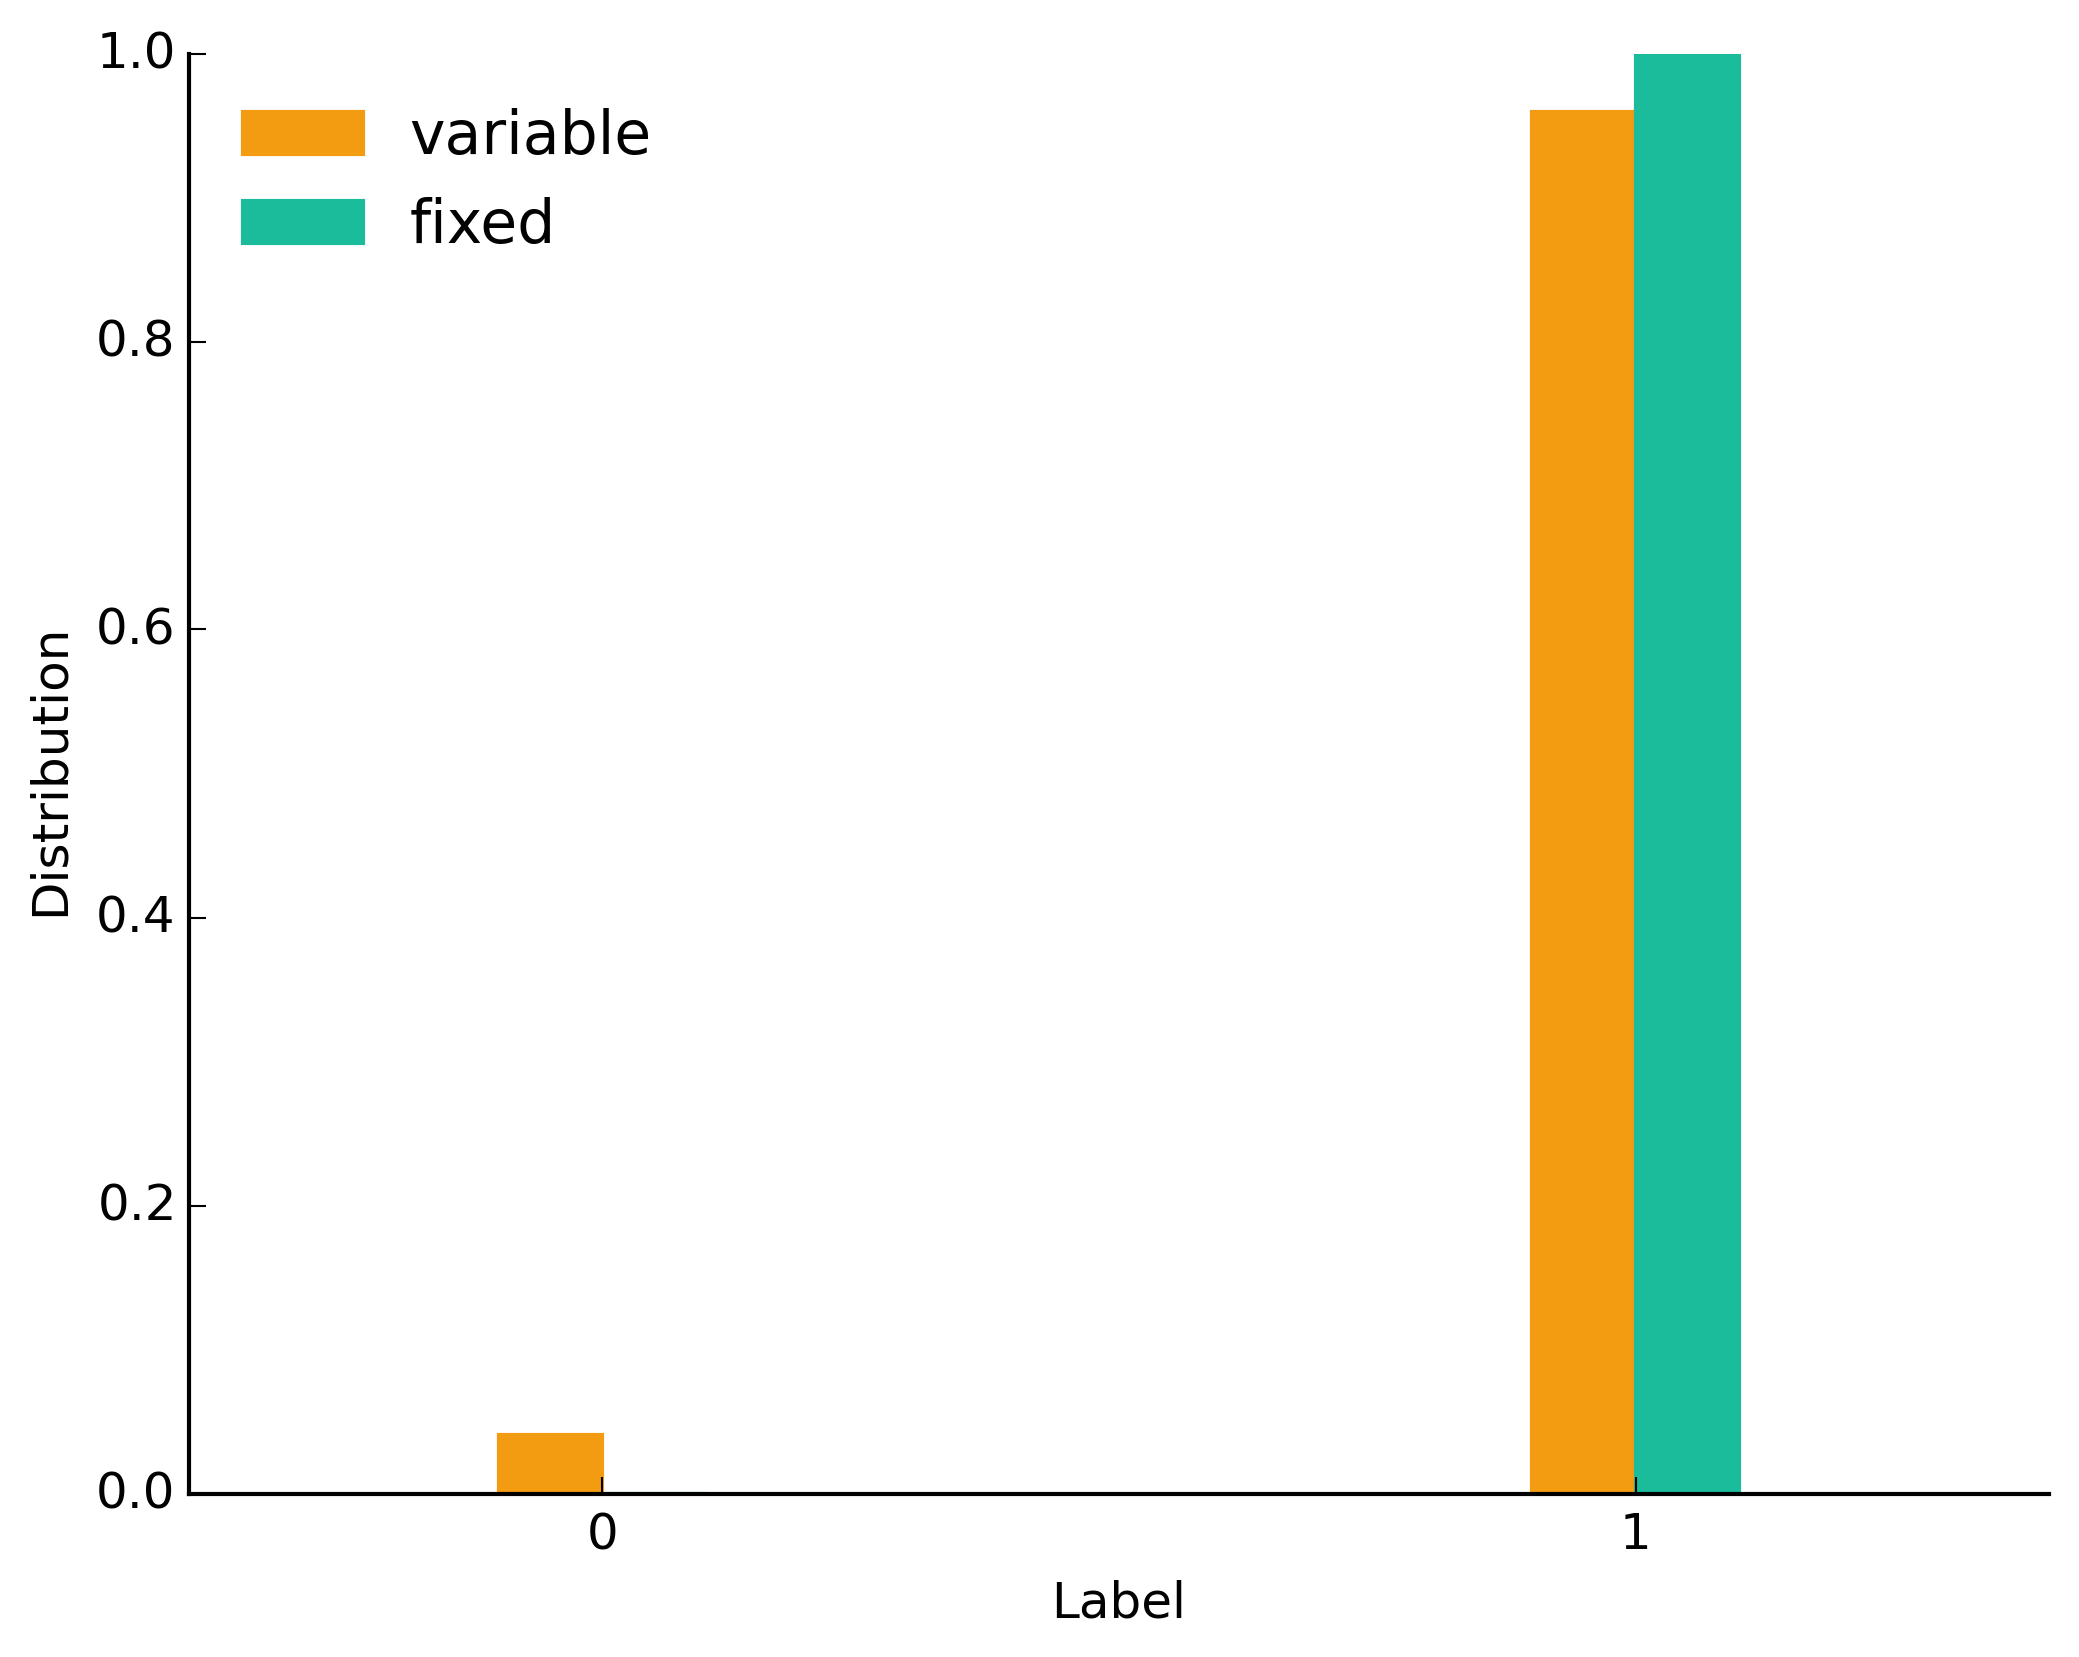
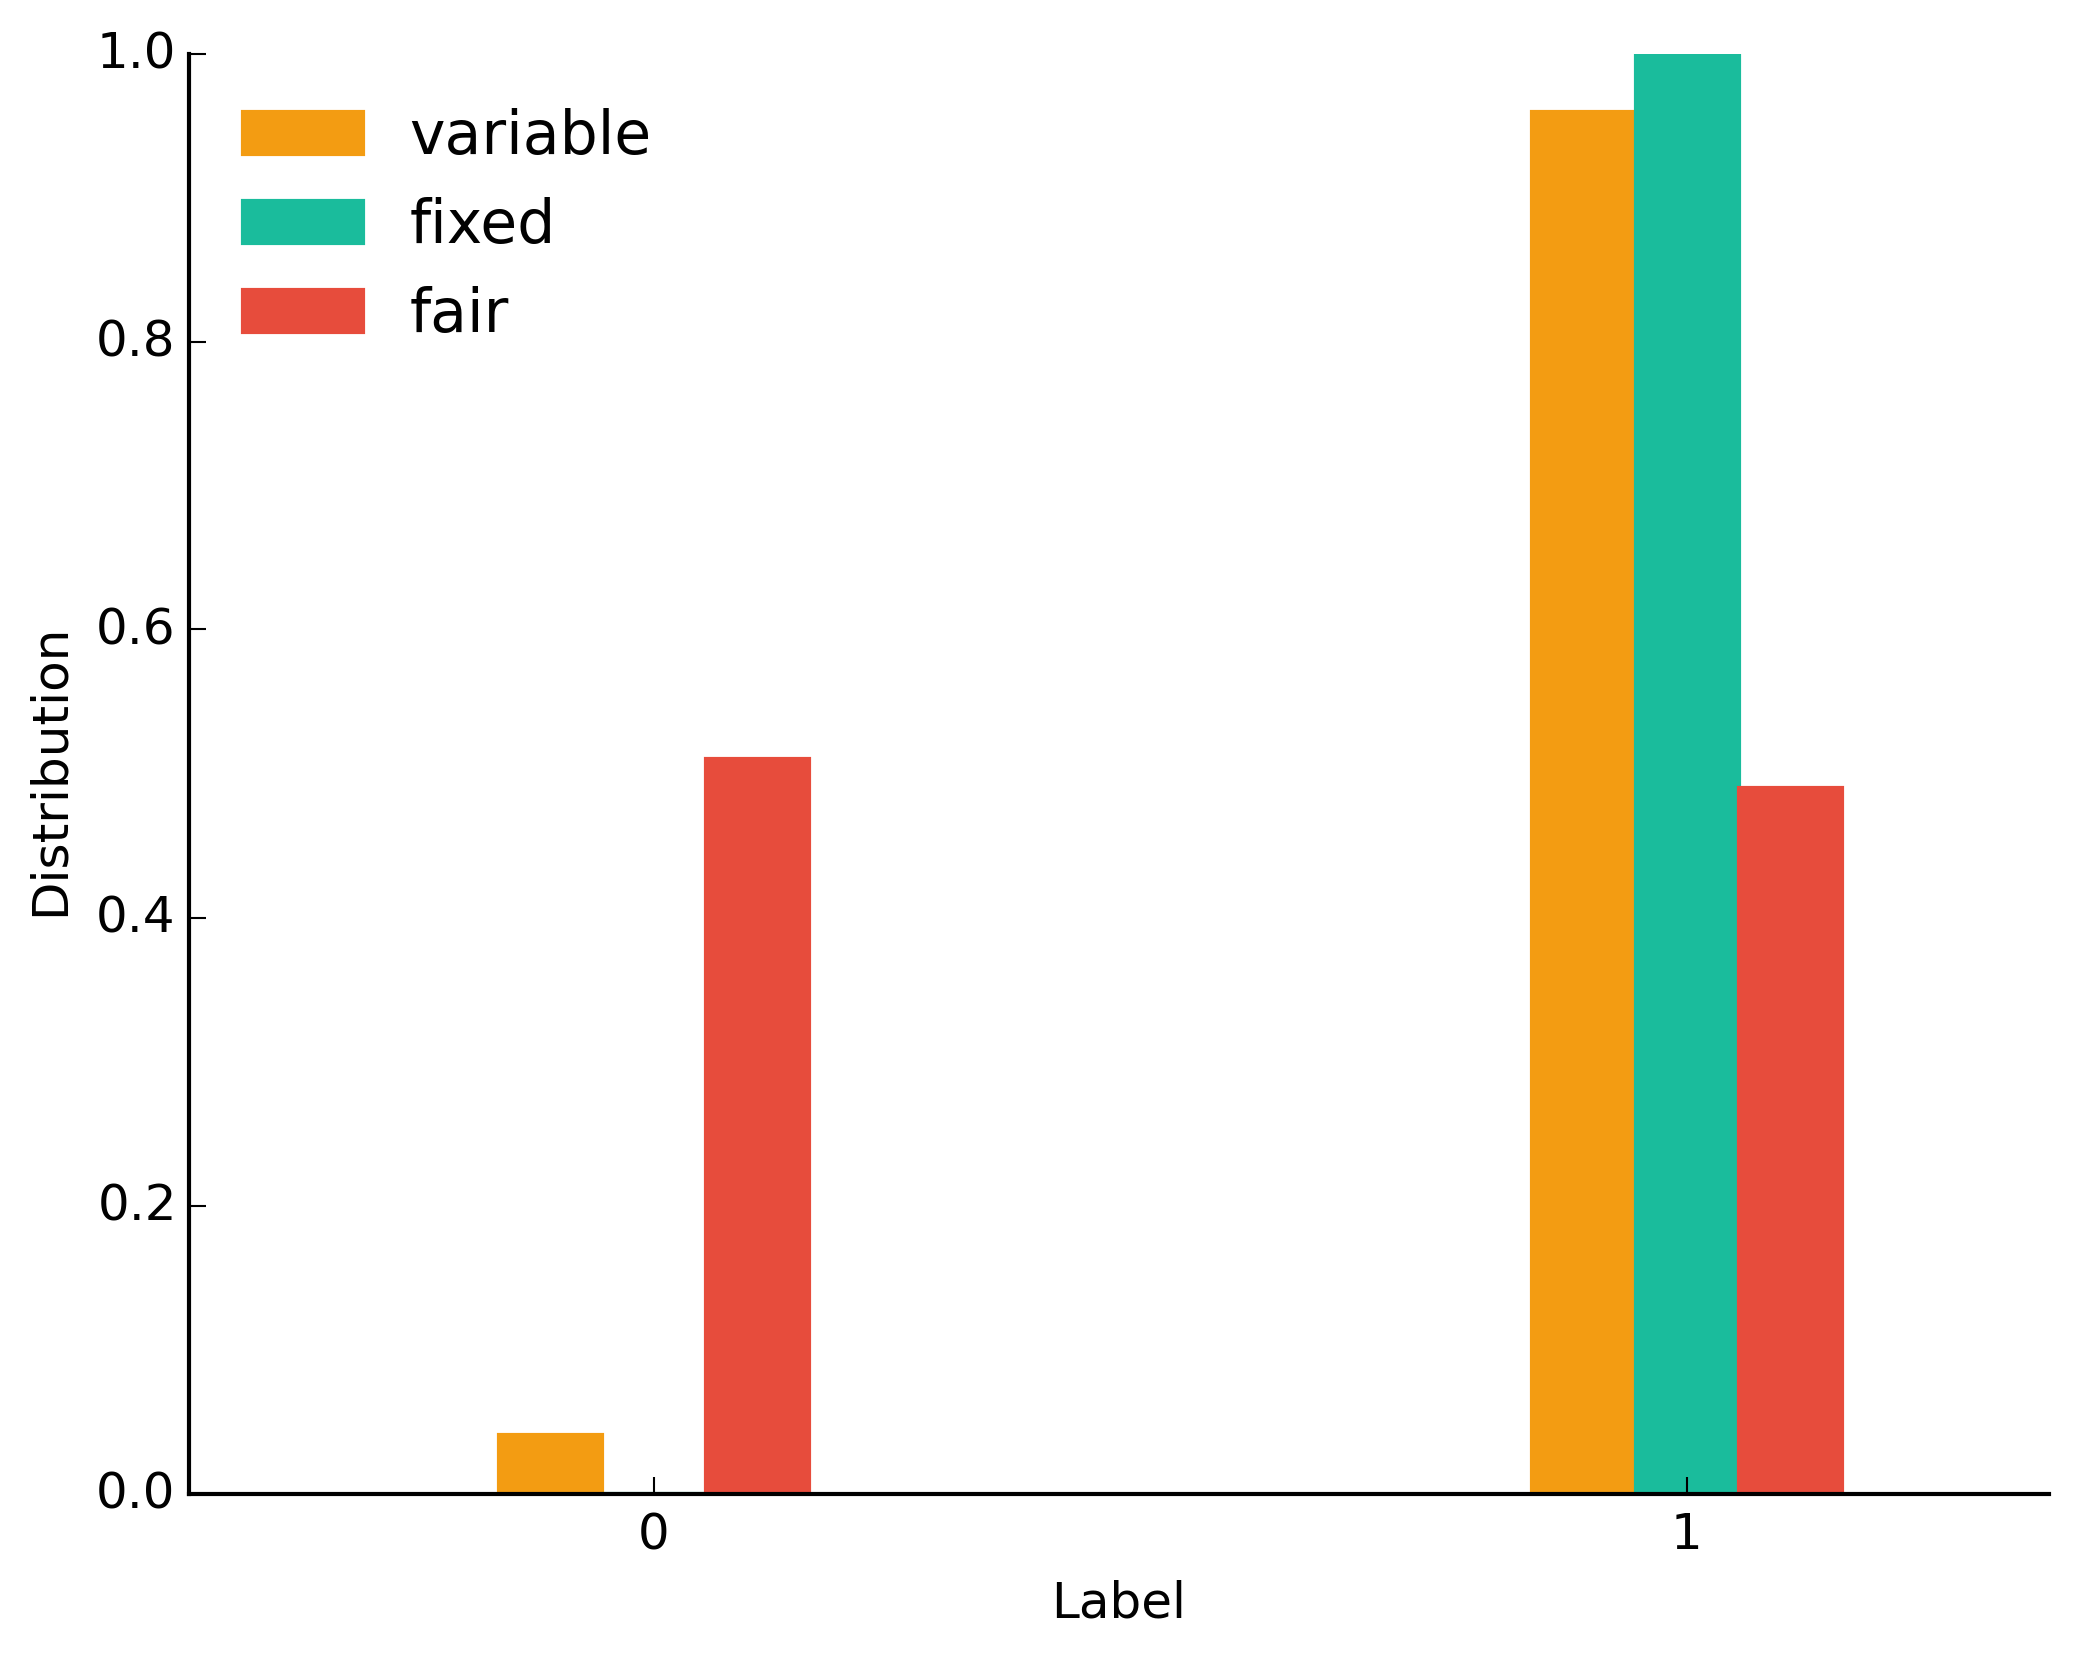
Updated lstm-xor to include Keras script and 'fair' dataset type

Changed region(s): [[0.3386, 0.4309, 0.4002, 0.9234], [0.8312, 0.4617, 0.8927, 0.9234], [0.0924, 0.1539, 0.2463, 0.2154]]

diff --git a/lstm-xor/lstm-xor-keras.py b/lstm-xor/lstm-xor-keras.py
@@ -1,0 +1,101 @@
+from __future__ import print_function
+try:
+	raw_input
+except:
+	raw_input = input
+
+import tensorflow as tf
+import numpy as np
+from keras.layers import Input, Dense, LSTM
+from keras.models import Model, load_model
+from keras.callbacks import EarlyStopping
+from numpy.random import RandomState
+import argparse
+import time
+import datetime
+import os
+
+from BinaryData import BinaryData
+
+tf.set_random_seed(1)
+np.random.seed(1)
+
+
+def train_model(input_data, labels):
+	latent_dim = 128
+	batch_size = 10000
+	n_epochs = 100
+	id_no = time.strftime('%Y%m%d_%H%M%S', datetime.datetime.now().timetuple())
+	model_folder = os.path.join("results", "{}_lstm_xor".format(id_no))
+	tf.gfile.MakeDirs(model_folder)
+
+	lstm_inputs = Input(shape=(None, input_data.shape[2]))
+	lstm = LSTM(latent_dim)
+	lstm_outputs = lstm(lstm_inputs)
+	dense = Dense(1)
+	outputs = dense(lstm_outputs)
+
+	model = Model(lstm_inputs, outputs)
+	print(model.summary())
+
+	model.compile(optimizer='adam', loss='mean_squared_error')
+	model.fit(input_data, labels,
+		batch_size=batch_size,
+		epochs=n_epochs,
+		validation_split=0.2)
+
+	model.save(os.path.join(model_folder, 'lstm_xor.h5'))
+
+	return model
+
+def train(hidden_num=128, batch_size=10000, max_seq_len=50, n_epochs=100, data_size=100000, length_type="fixed"):
+	dataset = BinaryData(max_seq_len=max_seq_len, size=data_size, length_type=length_type)
+	samples, labels = dataset.next(dataset.size)
+	train_model(samples, labels)
+
+def test(modelpath, max_seq_len=50, data_size=100000, length_type="fixed"):
+	dataset = BinaryData(max_seq_len=max_seq_len, size=data_size, length_type=length_type)
+	
+	model = load_model(modelpath)
+	print("\nEnter 'q' to quit...")
+	while True:
+		string = raw_input("\nInput         : ")
+		if string == "q":
+			break
+		vector = np.expand_dims(dataset.seq2vec(dataset.pad(string)), axis=0)
+		prediction = model.predict(vector)[0]
+		if prediction > 0.5:
+			xor_output = 1
+		else:
+			xor_output = 0
+		print('Predicted XOR : {}'.format(xor_output))
+
+
+if __name__ == "__main__":
+	parser = argparse.ArgumentParser(description="Implementation of LSTM for XOR problem")
+	# Arguments for training
+	parser.add_argument("--train", action='store_true')
+	parser.add_argument("-hn", "--hiddennum", action='store', type=int, default=128)
+	parser.add_argument("-sl", "--seqlen", action='store', type=int, default=50)
+	parser.add_argument("-ds", "--datasize", action='store', type=int, default=100000)
+	parser.add_argument("-bs", "--batchsize", action='store', type=int, default=10000)
+	parser.add_argument("-e", "--epoch", action='store', type=int, default=100)
+	parser.add_argument("-type", "--lengthtype", action='store', choices=["fixed", "variable", "fair"], default="fixed")
+	# Arguments for testing
+	parser.add_argument("--test", action='store_true')
+	parser.add_argument("-m", "--modelpath", action='store')
+	args = parser.parse_args()
+	if args.train:
+		train(hidden_num=args.hiddennum, 
+			batch_size=args.batchsize, 
+			max_seq_len=args.seqlen, 
+			n_epochs=args.epoch,
+			data_size=args.datasize,
+			length_type=args.lengthtype)
+	if args.test:
+		modelpath = args.modelpath
+		if not modelpath:
+			print("\nNo path supplied, using latest model...")
+			modelpath = os.path.join("results", os.listdir("./results")[-1], "lstm_xor.h5")
+		print("\nUsing model from: {}\n".format(modelpath))
+		test(modelpath)

diff --git a/lstm-xor/BinaryData.py b/lstm-xor/BinaryData.py
@@ -15,7 +15,7 @@ def shuffle(data, random_seed=1):
 class BinaryData(object):
 
 	def __init__(self, max_seq_len=50, size=100000, length_type="fixed"):
-		length_options = ["fixed", "variable"]
+		length_options = ["fixed", "variable", "fair"]
 		assert length_type in length_options, "length parameter should be one of {}".format(length_options)
 		self.max_seq_len = max_seq_len
 		self.size = size
@@ -30,7 +30,7 @@ class BinaryData(object):
 			# XOR-operation returns False (0) if sum(sequence) == len(sequence) or sum(sequence) == 0
 			# Else returns False (1)
 			self.labels = (((np.sum(self.data, axis=1) == 0).astype(np.int32) + (np.sum(self.data, axis=1) == self.max_seq_len).astype(np.int32)) == 0).astype(np.int32)
-		if length_type == "variable":
+		elif length_type == "variable":
 			self.data = None
 			self.labels = None
 			counts = Counter(np.random.choice(np.arange(1, self.max_seq_len+1), self.size))
@@ -46,6 +46,37 @@ class BinaryData(object):
 					self.labels = sublabels
 				else:
 					self.labels = np.concatenate((self.labels, sublabels))
+		elif length_type == "fair":
+			self.data = None
+			self.labels = None
+			counts = Counter(np.random.choice(np.arange(1, self.max_seq_len+1), self.size))
+			for length, count in counts.items():
+				if length == 1:
+					true_count = 0
+					false_count = int(count)
+				else:
+					true_count = int(count / 2)
+					false_count = count - true_count
+				true_subdata = (np.random.rand(true_count, length) > 0.5).astype(np.int32)
+				true_sublabels = (((np.sum(true_subdata, axis=1) == 0).astype(np.int32) + (np.sum(true_subdata, axis=1) == length).astype(np.int32)) == 0).astype(np.int32)
+				while sum(true_sublabels) < len(true_sublabels):
+					true_subdata[np.argmin(true_sublabels)] = (np.random.rand(length) > 0.5).astype(np.int32)
+					true_sublabels = (((np.sum(true_subdata, axis=1) == 0).astype(np.int32) + (np.sum(true_subdata, axis=1) == length).astype(np.int32)) == 0).astype(np.int32)
+				false_counts = Counter(np.random.choice([0, 1], false_count))
+				false_subdata_0 = np.zeros((false_counts[0], length))
+				false_subdata_1 = np.ones((false_counts[1], length))
+				subdata = np.concatenate((true_subdata, false_subdata_0, false_subdata_1))
+				sublabels = (((np.sum(subdata, axis=1) == 0).astype(np.int32) + (np.sum(subdata, axis=1) == length).astype(np.int32)) == 0).astype(np.int32)
+				subdata = np.concatenate((subdata, (-1 * np.ones((count, self.max_seq_len - length)))), axis=1)
+				if self.data is None:
+					self.data = subdata
+				else:
+					self.data = np.concatenate((self.data, subdata))
+				if self.labels is None:
+					self.labels = sublabels
+				else:
+					self.labels = np.concatenate((self.labels, sublabels))
+
 		self.data = shuffle(self.data)
 		self.labels = shuffle(self.labels)
 		self.idx = 0

diff --git a/lstm-xor/images_label_dist.py b/lstm-xor/images_label_dist.py
@@ -12,6 +12,7 @@ from BinaryData import BinaryData
 
 COLOR_EMERALD = "#1abc9c"
 COLOR_ORANGE = "#f39c12"
+COLOR_ALIZARIN = "#e74c3c"
 
 def main():
 
@@ -22,17 +23,17 @@ def main():
 	ax.xaxis.set_ticks_position('bottom')
 	label_types = np.array([0, 1])
 	width = 0.1
-	color = {"variable": COLOR_ORANGE, "fixed": COLOR_EMERALD}
+	color = {"variable": COLOR_ORANGE, "fixed": COLOR_EMERALD, "fair": COLOR_ALIZARIN}
 
 	size = 100000
 	max_seq_len = 50
 
-	for i, length_type in enumerate(["variable", "fixed"]):
+	for i, length_type in enumerate(["variable", "fixed", "fair"]):
 		dataset = BinaryData(length_type=length_type, size=size, max_seq_len=max_seq_len)
 		_, labels = dataset.next(dataset.size)
 		ax.bar(label_types + i * width, [float(np.sum(labels == 0))/size, float(np.sum(labels == 1))/size], width, color=color[length_type], edgecolor=color[length_type], label=length_type)
 
-	ax.set_xticks(label_types + width)
+	ax.set_xticks(label_types + 1.5 * width)
 	ax.set_xticklabels(label_types)
 	ax.set_xlim([-0.3,1.5])
 	ax.set_xlabel('Label')

diff --git a/snake/Snake.py b/snake/Snake.py
@@ -114,11 +114,15 @@ class Snake(object):
 			self.snake = self.snake[1:]
 
 	def feed(self):
-		x = np.random.choice(np.arange(self.max_x + 1))
-		y = np.random.choice(np.arange(self.max_y + 1))
-		while x in self.snake[:, 0] and y in self.snake[:, 1]:
+		collide = True
+		while collide:
+			collide = False
 			x = np.random.choice(np.arange(self.max_x + 1))
 			y = np.random.choice(np.arange(self.max_y + 1))
+			for segment in self.snake:
+				if np.array_equal([x, y], segment):
+					collide = True
+					break
 		self.food = [x, y]
 
 	def update_grid(self):

diff --git a/snake/test_agent.py b/snake/test_agent.py
@@ -2,7 +2,7 @@ import numpy as np
 
 from Snake import Snake
 
-env = Snake()
+env = Snake(10,10)
 obs = env.reset()
 print(obs.grid)
 while obs.state == 1 or obs.state == 2:
@@ -22,6 +22,4 @@ while obs.state == 1 or obs.state == 2:
 	obs = env.step(action)
 	print(obs.grid)
 	print(obs.score)
-	print(env.snake)
-	print(env.food)
-	print(env.snake[:, 0])
+	print(env.timestep)

diff --git a/lstm-xor/README.md b/lstm-xor/README.md
@@ -8,10 +8,28 @@ Run the following to train with default parameters.
 $ python lstm-xor.py --train
 ```
 
+or
+
+```
+$ python lstm-xor-keras.py --train
+```
+
+The latter uses the Keras library and has much cleaner code, but the dataset used for both is the same.
+
+
 And the following command to test using the latest model, which allows you to enter binary sequences for the model to predict.
 
 ```
 $ python lstm-xor.py --test
+
+No path supplied, using latest model...
+
+```
+
+or
+
+```
+$ python lstm-xor-keras.py --test
 
 No path supplied, using latest model...
 
@@ -42,10 +60,11 @@ optional arguments:
 
 ## Some Notes
 
-The Requests for Research problem suggested comparing two datasets:
+The Requests for Research problem suggested comparing two datasets and I have added a third:
 
 1. `-type fixed` Sequences of fixed length 50 
 2. `-type variable` Sequences of variable length, uniformly sampled from 1 to 50
+3. `-type fair` Sequences of variable length, uniformly sampled from 1 to 50, with equal probability of generating a sample labeled 0 or 1
 
 Considering that the LSTM is meant to model the [XOR](https://en.wikipedia.org/wiki/XOR_gate) operation, it is simple to see that the `fixed` dataset will rarely contain any samples of label `0`. More precisely, of the approximately 1e15 unique samples for binary sequences of length 50, only 2 samples will have label `0`. 
 
@@ -53,10 +72,16 @@ In general, probability of label `0` occuring in sequences of length n is <img s
 
 <img src="https://raw.githubusercontent.com/greentfrapp/claptrap/master/lstm-xor/images/label_dist.png" alt="Distribution of labels in the two datasets" width="480px" height="whatever">
 
-*Label distributions for a random sample of the `fixed` and `variable` datasets with maximum length 50 and size 100000*
+*Label distributions for a random sample of the `fixed`, `variable` and `fair` datasets with maximum length 50 and size 100000*
 
 On the other hand, the `variable` dataset is far more likely to contain samples of label `0`. Considering a uniform sampling from 1 to 50 for length, the probability of label `0` occuring is 
 
 <img src="https://raw.githubusercontent.com/greentfrapp/claptrap/master/lstm-xor/images/eqn_2.jpg" alt="0.02\sum_{i=1}^{50}{2^{1-i}} \approx 0.04" width="162" height="53">.
 
+Finally, the `fair` dataset forces the distribution of labels to be equal, while uniformly sampling from the different lengths. This means that there are many repeated samples in the samples labeled `0`, since there are so few variations.
+
 Since an LSTM trained on the `fixed` dataset will virtually never see a sample with label `0`, the trained LSTM will likely only output `1` for any input. This gives good performance for a similarly distributed test set but performs poorly on a `variable` test set or any test set that has a relatively high proportion of samples labeled `0`. 
+
+In contrast, an LSTM trained on the `variable` dataset is likely to perform better due to the higher proportion (4%) of samples being of label `0`. However, it is still likely to miss out many test sequences of label `0`. 
+
+Finally, an LSTM trained on the `fair` dataset will perform the best on a random test set, since it is trained on an even number of `0` and `1` samples and is likely to have seen and recognize all the variations of samples labeled `0`.
